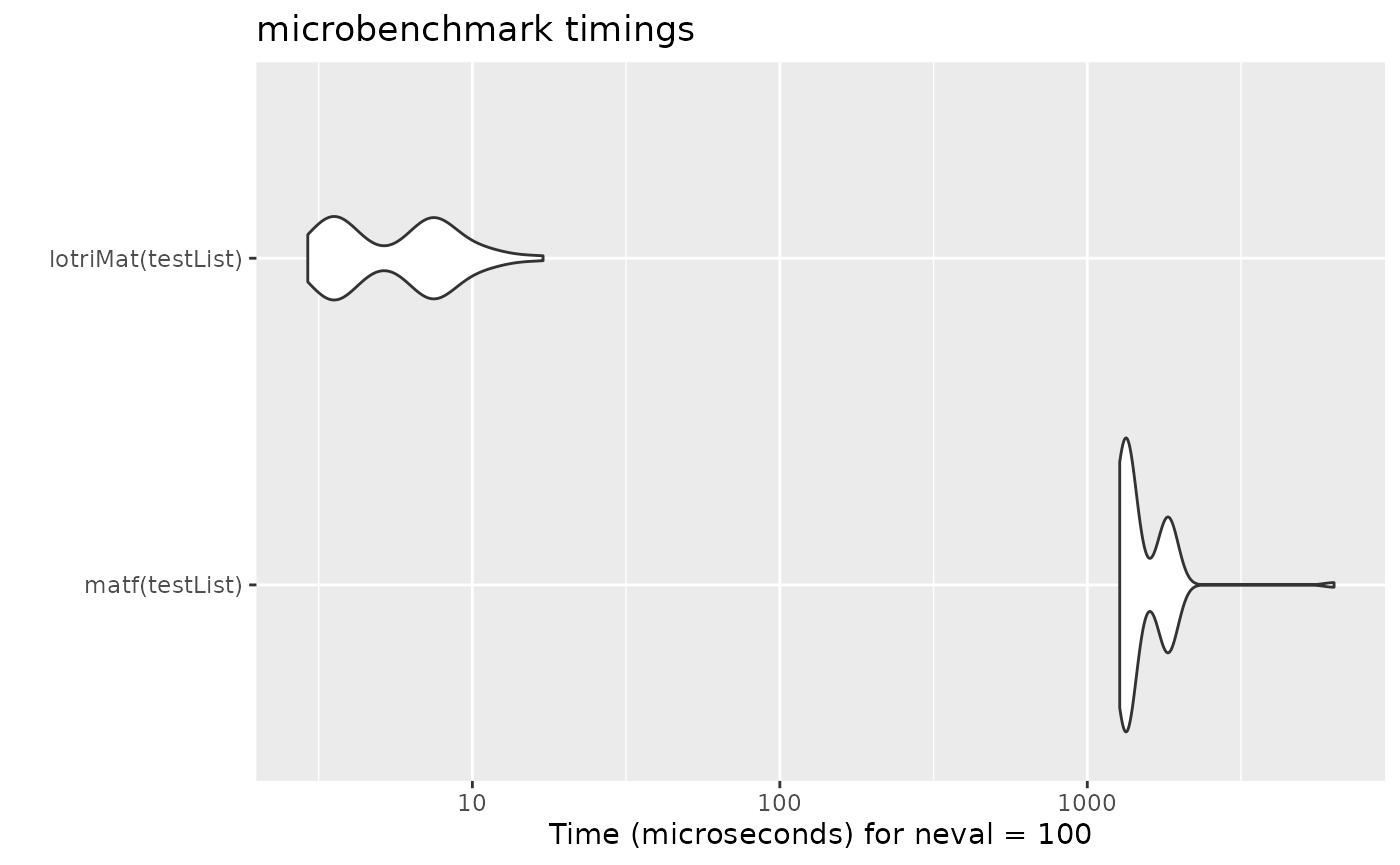
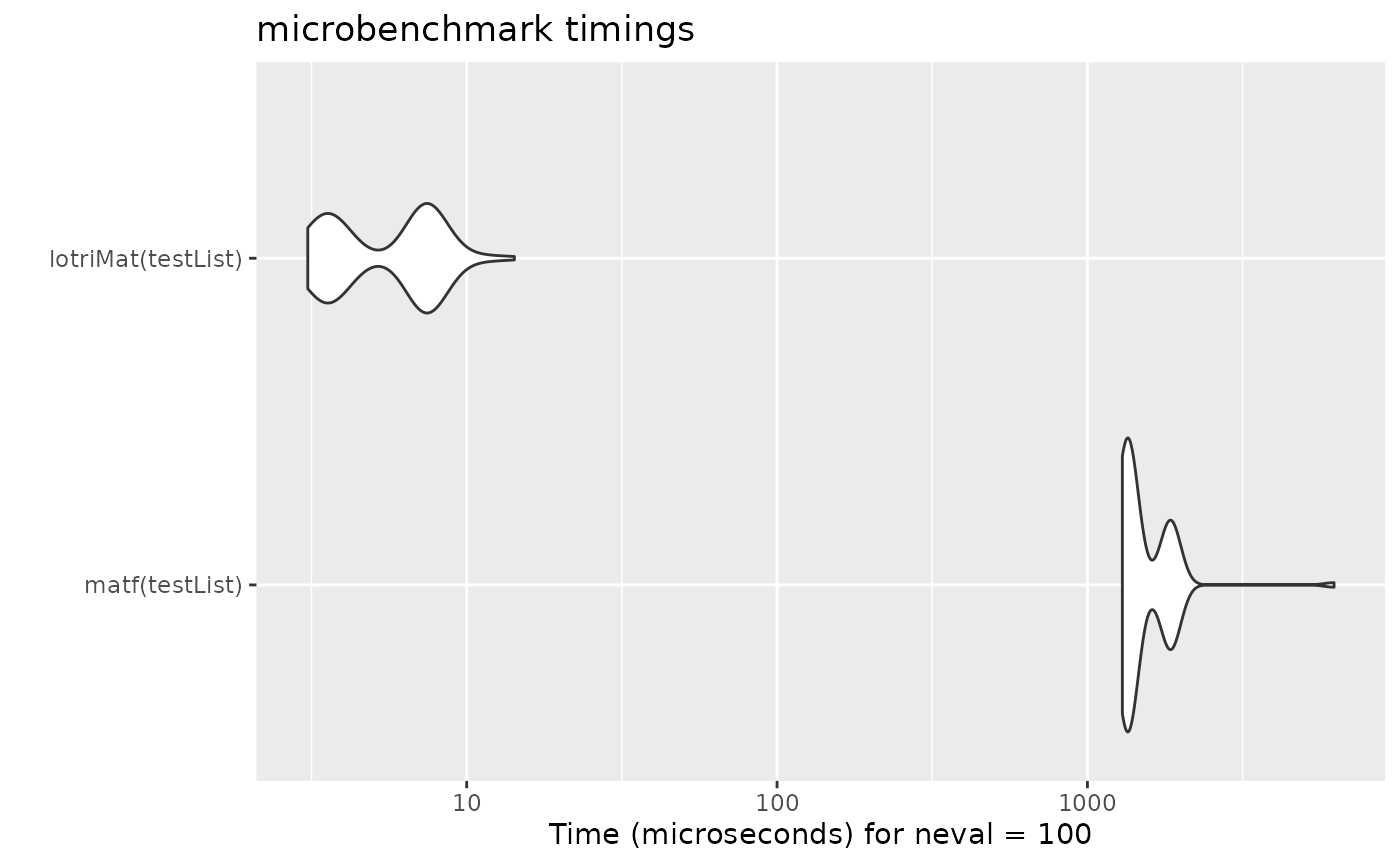
Deploying to gh-pages from @ nlmixr2/lotri@2f0f53a98fdfa723f0d79a046ac588f73407f64a 🚀

diff --git a/reference/dot-lotriPointers.html b/reference/dot-lotriPointers.html
@@ -59,34 +59,34 @@
     <div class="sourceCode"><pre class="sourceCode r"><code><span class="r-in"><span></span></span>
 <span class="r-in"><span><span class="fu">.lotriPointers</span><span class="op">(</span><span class="op">)</span></span></span>
 <span class="r-out co"><span class="r-pr">#&gt;</span> $lotriLstToMat</span>
-<span class="r-out co"><span class="r-pr">#&gt;</span> &lt;pointer: 0x7f6352d33f40&gt;</span>
+<span class="r-out co"><span class="r-pr">#&gt;</span> &lt;pointer: 0x7f303b6a2f40&gt;</span>
 <span class="r-out co"><span class="r-pr">#&gt;</span> </span>
 <span class="r-out co"><span class="r-pr">#&gt;</span> $asLotriMat</span>
-<span class="r-out co"><span class="r-pr">#&gt;</span> &lt;pointer: 0x7f6352d321b0&gt;</span>
+<span class="r-out co"><span class="r-pr">#&gt;</span> &lt;pointer: 0x7f303b6a11b0&gt;</span>
 <span class="r-out co"><span class="r-pr">#&gt;</span> </span>
 <span class="r-out co"><span class="r-pr">#&gt;</span> $lotriSep</span>
-<span class="r-out co"><span class="r-pr">#&gt;</span> &lt;pointer: 0x7f6352d35f40&gt;</span>
+<span class="r-out co"><span class="r-pr">#&gt;</span> &lt;pointer: 0x7f303b6a4f40&gt;</span>
 <span class="r-out co"><span class="r-pr">#&gt;</span> </span>
 <span class="r-out co"><span class="r-pr">#&gt;</span> $lotriAllNames</span>
-<span class="r-out co"><span class="r-pr">#&gt;</span> &lt;pointer: 0x7f6352d36510&gt;</span>
+<span class="r-out co"><span class="r-pr">#&gt;</span> &lt;pointer: 0x7f303b6a5510&gt;</span>
 <span class="r-out co"><span class="r-pr">#&gt;</span> </span>
 <span class="r-out co"><span class="r-pr">#&gt;</span> $lotriGetBounds</span>
-<span class="r-out co"><span class="r-pr">#&gt;</span> &lt;pointer: 0x7f6352d32750&gt;</span>
+<span class="r-out co"><span class="r-pr">#&gt;</span> &lt;pointer: 0x7f303b6a1750&gt;</span>
 <span class="r-out co"><span class="r-pr">#&gt;</span> </span>
 <span class="r-out co"><span class="r-pr">#&gt;</span> $lotriMaxNu</span>
-<span class="r-out co"><span class="r-pr">#&gt;</span> &lt;pointer: 0x7f6352d35a10&gt;</span>
+<span class="r-out co"><span class="r-pr">#&gt;</span> &lt;pointer: 0x7f303b6a4a10&gt;</span>
 <span class="r-out co"><span class="r-pr">#&gt;</span> </span>
 <span class="r-out co"><span class="r-pr">#&gt;</span> $isLotri</span>
-<span class="r-out co"><span class="r-pr">#&gt;</span> &lt;pointer: 0x7f6352d363f0&gt;</span>
+<span class="r-out co"><span class="r-pr">#&gt;</span> &lt;pointer: 0x7f303b6a53f0&gt;</span>
 <span class="r-out co"><span class="r-pr">#&gt;</span> </span>
 <span class="r-out co"><span class="r-pr">#&gt;</span> $lotriRcm</span>
-<span class="r-out co"><span class="r-pr">#&gt;</span> &lt;pointer: 0x7f6352d41490&gt;</span>
+<span class="r-out co"><span class="r-pr">#&gt;</span> &lt;pointer: 0x7f303b6b0490&gt;</span>
 <span class="r-out co"><span class="r-pr">#&gt;</span> </span>
 <span class="r-out co"><span class="r-pr">#&gt;</span> $lotriNearPDc</span>
-<span class="r-out co"><span class="r-pr">#&gt;</span> &lt;pointer: 0x7f6352d3b7f0&gt;</span>
+<span class="r-out co"><span class="r-pr">#&gt;</span> &lt;pointer: 0x7f303b6aa7f0&gt;</span>
 <span class="r-out co"><span class="r-pr">#&gt;</span> </span>
 <span class="r-out co"><span class="r-pr">#&gt;</span> $lotriNearPDsexp</span>
-<span class="r-out co"><span class="r-pr">#&gt;</span> &lt;pointer: 0x7f6352d3bd60&gt;</span>
+<span class="r-out co"><span class="r-pr">#&gt;</span> &lt;pointer: 0x7f303b6aad60&gt;</span>
 <span class="r-out co"><span class="r-pr">#&gt;</span> </span>
 </code></pre></div>
     </div>

diff --git a/news/index.html b/news/index.html
@@ -61,6 +61,7 @@
 <span>        e<span class="op">=</span><span class="fl">1</span><span class="op">)</span></span>
 <span><span class="op">}</span><span class="op">)</span></span></code></pre></div>
 <p>This way changing to an R parsed expression will be rendered in a more human readable format.</p>
+<p>You can change the deparsing options that are used by default with <code>lotri</code> with <code>options(lotri.plusNames=TRUE)</code> which prefers the <code>a+b+c</code> syntax when deparsing. Otherwise, the line format is used by default. The dimension number before naming the values in the line-format can be controlled with <code>options(lotri.nameEst=2)</code> or some other dimension.</p>
 <ul><li><p>New option of <code>cov</code> added which check for matrix suitability for covariance matrix. When <code>cov=TRUE</code>, off-diagonal elements in covariance matrices may no longer be nonzero if the diagonal value is zero (rxode2#481). This will also check tht the matrix is non-positive definite on the non-diagonal terms. <code>cov</code> can also be a function to allow correction of the matrix to a positive definite matrix automatically.</p></li>
 <li><p>New option of <code>rcm</code>; When enabled, and <code><a href="../reference/lotriIsBlockMat.html">lotriIsBlockMat()</a></code> is not true, <code><a href="../reference/lotri.html">lotri()</a></code> will permute the matrix to try to get a banded matrix using the Reverse Cuthill McKee algorithm.</p></li>
 <li><p>Change internals for <code>lotri</code> so that new <code>rxode2</code> is no longer required to be binary linked to <code>lotri</code>.</p></li>

diff --git a/articles/lotri-motivation.html b/articles/lotri-motivation.html
@@ -228,9 +228,9 @@ concatenation with <code>lotriMat</code></p>
 <span></span>
 <span><span class="fu"><a href="https://rdrr.io/r/base/print.html" class="external-link">print</a></span><span class="op">(</span><span class="va">mb</span><span class="op">)</span></span>
 <span><span class="co">#&gt; Unit: microseconds</span></span>
-<span><span class="co">#&gt;                expr      min       lq       mean    median       uq      max</span></span>
-<span><span class="co">#&gt;      matf(testList) 1274.961 1322.303 1538.24379 1362.4490 1815.845 6348.593</span></span>
-<span><span class="co">#&gt;  lotriMat(testList)    2.915    3.602    6.13728    6.6675    7.764   16.982</span></span>
+<span><span class="co">#&gt;                expr      min       lq       mean   median       uq      max</span></span>
+<span><span class="co">#&gt;      matf(testList) 1296.068 1329.820 1548.96401 1375.907 1826.628 6234.121</span></span>
+<span><span class="co">#&gt;  lotriMat(testList)    3.076    3.617    5.84853    6.873    7.549   14.246</span></span>
 <span><span class="co">#&gt;  neval</span></span>
 <span><span class="co">#&gt;    100</span></span>
 <span><span class="co">#&gt;    100</span></span>
